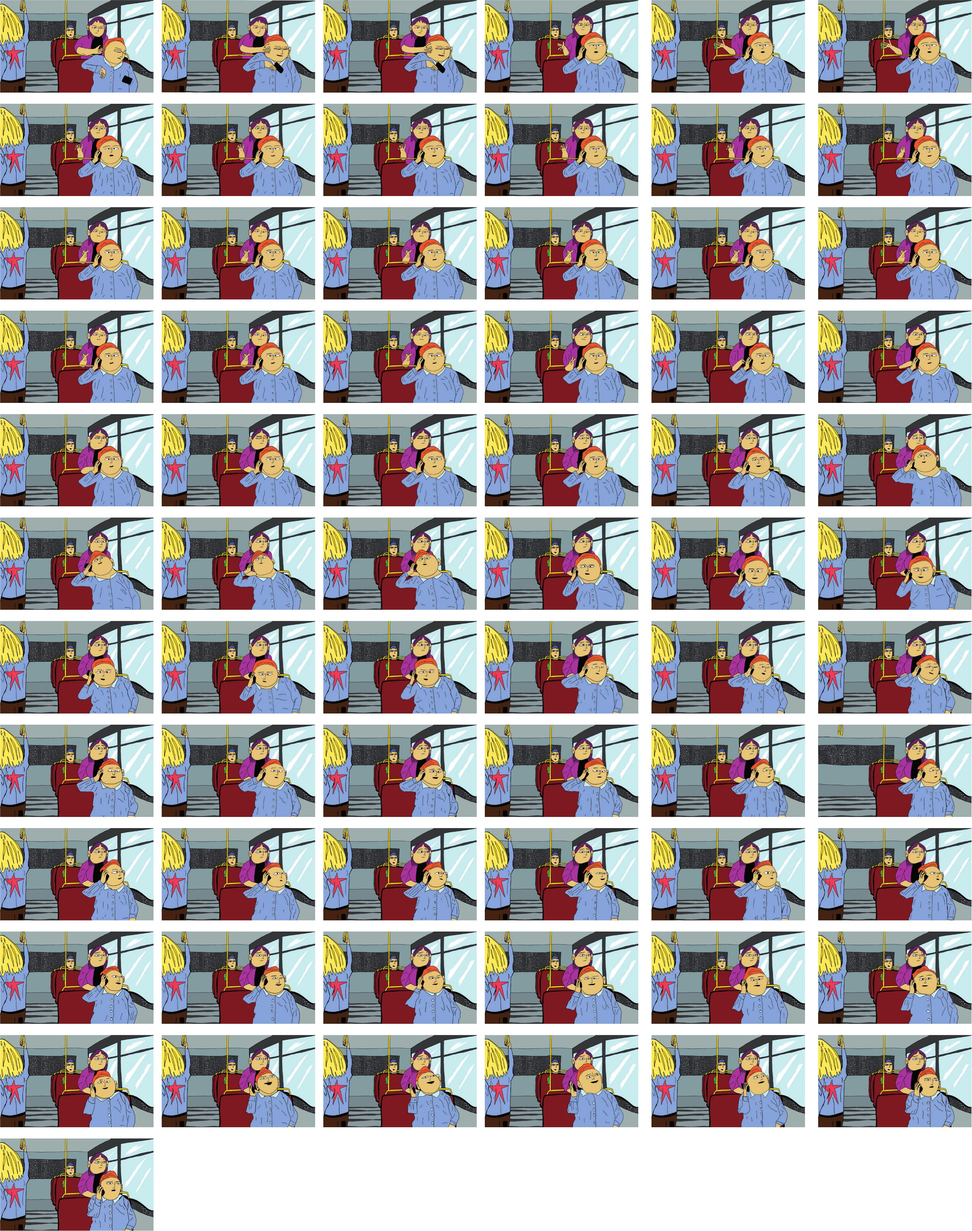
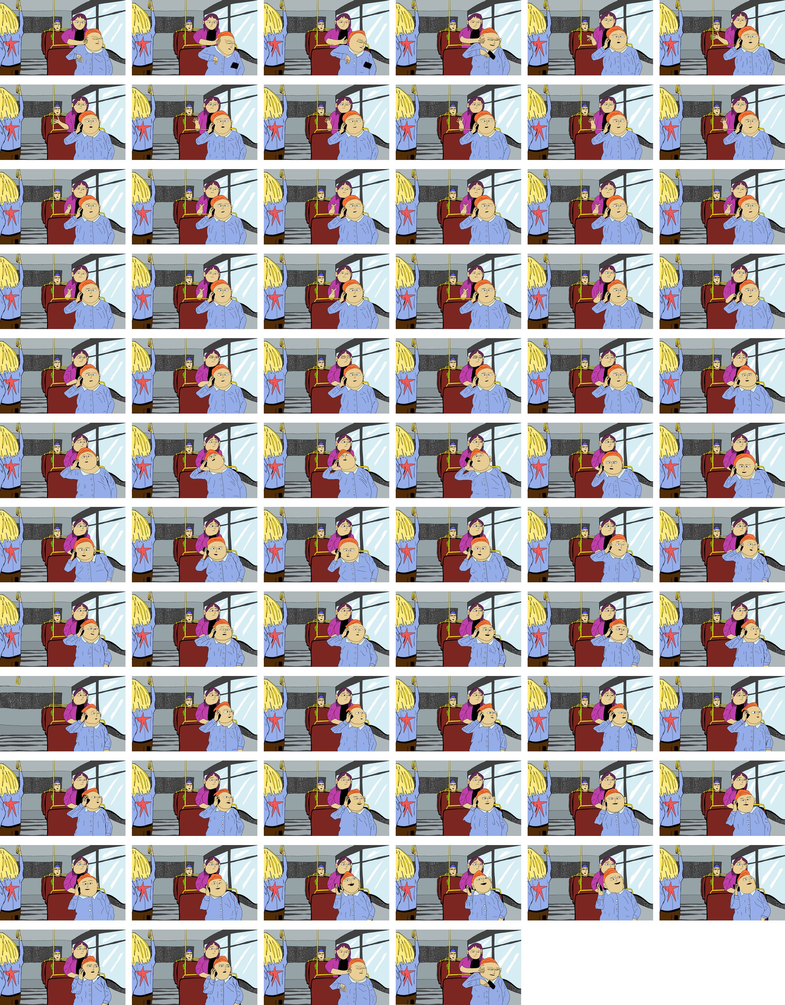
Add files via upload

diff --git a/do-you-mind.html b/do-you-mind.html
@@ -62,7 +62,7 @@
          ===================================================================== -->
     <div class="sd-seite">
       <div class="sd-stage">
-      <div class="dm-hero" style="--gap:7.16;--x:4.09;--w:91.66">
+      <div class="dm-hero" style="--gap:0;--vg:0.88;--x:4.09;--w:91.66">
         <video controls playsinline preload="metadata" src="bilder/do-you-mind/video-hero.mp4" poster="bilder/do-you-mind/video-hero-poster.jpg" aria-label="DO YOU MIND?: der Film"></video>
       </div>
       <div class="dm-row dm-pair" style="--gap:8.53;--rh:61.17;--x1:7.19;--w1:39.79;--w2:39.11;--cg:2.93">
@@ -81,7 +81,7 @@
         <div class="sd-text dm-text" style="--x:7.16;--w:76.02;--hm:0.48"><h2 class="sd-h2">Umsetzung</h2><p>Alle Szenen wurden Frame für Frame von Hand gezeichnet. Anschließend wurden sie digital zu einem Animationsfilm zusammengesetzt.</p></div>
       </div>
       <div class="dm-abfolge" style="--x:7.84;--w:81.95;--pb:4.51">
-        <img src="bilder/do-you-mind/bildabfolge.jpg" alt="Bildabfolge: die einzelnen Animationsframes der Busszene in sechs Spalten" width="2875" height="3642">
+        <img src="bilder/do-you-mind/bildabfolge.jpg" alt="Bildabfolge: die einzelnen Animationsframes der Busszene in sechs Spalten (70 Frames)" width="2321" height="2972">
       </div>
       </div>
     </div>

diff --git a/style.css b/style.css
@@ -969,3 +969,7 @@ body.menue-offen { overflow: hidden; }
   .dm-szenen > .dm-bild { width: 100%; margin: 0 0 1rem; }
   .dm-abfolge { margin-left: 0; width: 100%; margin-top: 1.6rem; }
 }
+
+/* DO YOU MIND?: Abstand Kopf -> Video wie im Entwurf (ca. 20 Punkte unter der Kurzbeschreibung) */
+[data-projekt="do-you-mind"] .sd-seite { margin-top: 0; }
+[data-projekt="do-you-mind"] .dm-hero { margin-top: calc(var(--vg, 0) * 1cqw); }
